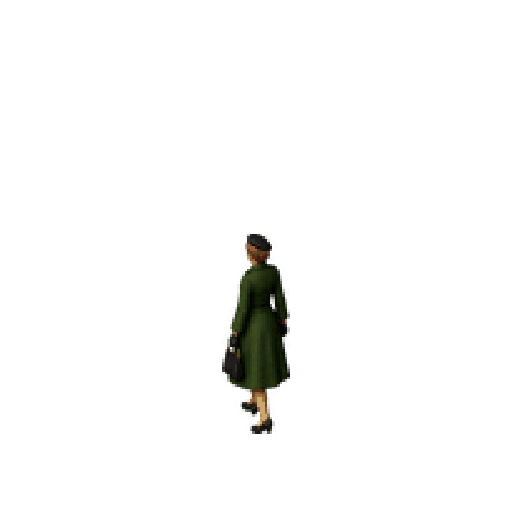
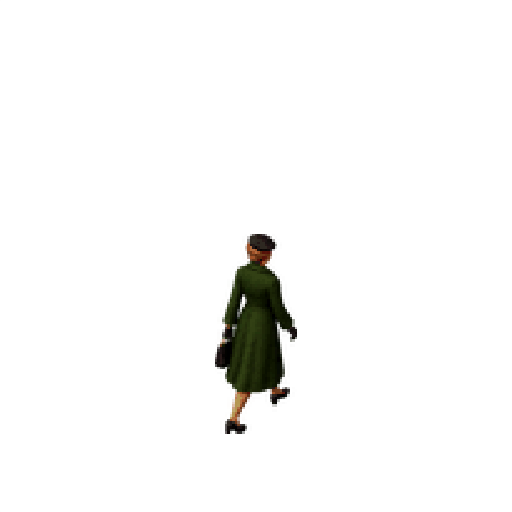
Fix Lila NE exit walk cycle so both legs alternate.
Replace the one-leg departure strip with an opposite-contact lead exchange (R-R-R-L-L-L-R-R), keep NE facing without flipping, and ship the V7 atlas cells.

Changed region(s): [[0.4062, 0.4375, 0.5938, 0.875]]

diff --git a/ArtSource/Processing/process_lila_departure_facing_fix_v01.py b/ArtSource/Processing/process_lila_departure_facing_fix_v01.py
@@ -1,0 +1,82 @@
+#!/usr/bin/env python3
+"""Install the NE-facing Lila departure strip and rebake only those atlas cells.
+
+Uses the V7 pixelation crunch (80px native / 64-color opaque ramp / 200px texture
+body) so runtime stays on the shipping contract. Arrival frames are untouched.
+"""
+
+from pathlib import Path
+import shutil
+
+from PIL import Image
+
+import process_pre_rendered_characters_v3 as raster
+import process_pre_rendered_characters_v6 as v6
+import process_pre_rendered_characters_v7 as v7
+from process_character_gait_v5 import remove_green_screen
+
+
+ROOT = Path(__file__).resolve().parents[2]
+CLIENT = ROOT / "ArtSource/Generated/Characters/Client/PreRendered3DV6"
+FIX = CLIENT / "DepartureFacingFixV1"
+ATLASES = ROOT / "RainShadow Shared/Resources/Art/Atlases"
+
+CHROMA_MASTER = CLIENT / "lila_departure_ne_strip_chroma_v06.png"
+RGBA_MASTER = CLIENT / "lila_departure_ne_strip_rgba_v06.png"
+COMBINED_SOURCE = FIX / "lila_departure_ne_strip_combined_gen.png"
+
+
+def install_master() -> None:
+    if not COMBINED_SOURCE.exists():
+        raise FileNotFoundError(f"Missing approved NE strip: {COMBINED_SOURCE}")
+    # Provenance copies of rejected NW masters live in DepartureFacingFixV1/.
+    shutil.copy2(COMBINED_SOURCE, CHROMA_MASTER)
+    print(f"Installed chroma master from {COMBINED_SOURCE.name}")
+
+
+def process_departure() -> None:
+    remove_green_screen(CHROMA_MASTER, RGBA_MASTER)
+    figures = raster.crop_components(RGBA_MASTER, 8, 1)
+    if len(figures) != 8:
+        raise RuntimeError(f"Expected 8 departure figures, found {len(figures)}")
+
+    raster.pixelize_figure = v7.pixelize_figure_v7
+    for index, figure in enumerate(figures):
+        frame = raster.register(figure)
+        v7.save_frame_v7(
+            frame,
+            "LilaArrival.atlas",
+            f"lila_departure_ne_{index:02d}.png",
+            CLIENT,
+        )
+    print(f"Wrote 8 V7 departure cells to Registered_v07/ and LilaArrival.atlas")
+
+
+def refresh_preview() -> None:
+    frame_size = raster.FRAME_SIZE
+    names = [f"lila_arrival_sw_{i:02d}.png" for i in range(9)] + [
+        f"lila_departure_ne_{i:02d}.png" for i in range(8)
+    ]
+    columns = 9
+    rows = (len(names) + columns - 1) // columns
+    preview = Image.new("RGBA", (frame_size * columns, frame_size * rows), (24, 28, 31, 255))
+    atlas = ATLASES / "LilaArrival.atlas"
+    for index, name in enumerate(names):
+        frame = Image.open(atlas / name).convert("RGBA")
+        preview.alpha_composite(
+            frame,
+            ((index % columns) * frame_size, (index // columns) * frame_size),
+        )
+    out = CLIENT / "preview_lila_v07.png"
+    preview.save(out, optimize=True)
+    print(f"Refreshed {out.name}")
+
+
+def main() -> None:
+    install_master()
+    process_departure()
+    refresh_preview()
+
+
+if __name__ == "__main__":
+    main()

diff --git a/ArtSource/Prompts/GenerationLog.md b/ArtSource/Prompts/GenerationLog.md
@@ -64,6 +64,8 @@ All prompts use the supplied Baldur's Gate-era screenshots as style-analysis ref
 | Vivian Hart departure NE V1 | `exec-fd4338a1-9267-406b-a9ab-9aaf4f8c2dd2.png`, `exec-2ff644ad-3bd5-4000-8b60-397530bc37b1.png`, `exec-7ea8d893-a118-461b-8d90-3dc2a6b59941.png`, `exec-931121e8-42f0-4647-bb66-1cab01fac9bd.png` | Four individual chroma and RGBA sources under `Generated/Characters/Client/DepartureNEV1/` plus registered still and animated previews | Adds four `client_departure_ne` frames to `ClientArrival.atlas` | Rear three-quarter northeast exit cycle preserving Vivian's burgundy hat, dark waved hair, charcoal coat, and handbag on her anatomical left; alternating contact/pass poses; same fixed camera, coarse CRPG scale, palette, and flat chroma field with no floor, shadow, text, or UI. |
 | Vivian Hart departure NE V2 | `exec-37d98276-656a-4d31-bf3f-e16aea62b902.png`, `exec-9b8088f2-c422-4fb8-843a-8b8d10c4b9a8.png` | Two corrected opposite-leg sources under `Generated/Characters/Client/DepartureNEV2/` plus registered still and animated previews | Replaces the final two `client_departure_ne` frames in `ClientArrival.atlas`; the first contact/pass pair remains unchanged | Corrects the V1 same-leg gait with an unmistakable image-right planted contact and a compact inverse pass. Vivian's hat, coat, handbag-side identity, rear northeast direction, scale, and transparent runtime contract remain unchanged. |
 | Vivian Hart departure NE V3 | `exec-f1288d70-ca87-48f8-bcfe-31dc00a02aba.png` | Corrected second-contact source under `Generated/Characters/Client/DepartureNEV3/` plus registered still and animated previews | Replaces `client_departure_ne_02` in `ClientArrival.atlas`; the other V2 cycle phases remain unchanged | Repairs the V2 contact-frame defect: the lifted handbag-side leg is drawn inward, the stride is restrained, and the coat/skirt hem remains on-model while preserving the image-right planted support leg. |
+| Lila March departure NE facing fix V1 | Cursor Image Generator NE key + two 4-frame halves (`lila_departure_ne_key_gen.png`, `lila_departure_ne_half_{a,b}_gen.png`) | `Client/PreRendered3DV6/DepartureFacingFixV1/` provenance + replaced `lila_departure_ne_strip_chroma_v06.png` | `LilaArrival.atlas` `lila_departure_ne_{00–07}` (V7 crunch) | Replaces the V6 rear strip that faced upper-left (NW) with rear three-quarter **upper-right (NE)** so exit matches `clientDeparturePath`; no horizontal flip (handbag/light). Prompt: `lila_departure_ne_facing_fix_v01.md`; processor: `process_lila_departure_facing_fix_v01.py`. |
+| Lila March departure NE gait fix V1 | Cursor Image Generator individual NE poses + RED/BLUE pose guide; approved opposite contact `pose_opp_imgL_higher.png` (+ mid/wide variants) | `Client/PreRendered3DV6/DepartureFacingFixV1/GaitFixV1/` (`gaitfix_v12`, `v11_poses/`, QA GIF/feet) + replaced `lila_departure_ne_strip_chroma_v06.png` | `LilaArrival.atlas` `lila_departure_ne_{00–07}` (V7 crunch) | Fixes post-facing-fix one-leg limp: composited R-R-R-L-L-L-R-R lead exchange (image-left foot higher on opposite half). No whole-figure flip. Prompt: `lila_departure_ne_gait_fix_v01.md`; processor: `process_lila_departure_facing_fix_v01.py`. |
 | Inventory paperdoll V1 | `exec-f580c85a-4ada-48d7-ad34-01a49637cd81.png` | `Generated/Characters/Detective/Paperdoll/det_paperdoll_front_chroma_v01.png` | `Art/UI/Inventory/det_paperdoll_front_rgba_v01.png`, 1024×1536 | Dedicated forward-facing Elias Vale paperdoll; neutral symmetrical stance; fedora, weathered trench coat and muted noir palette preserved; polished hand-painted inventory resolution with smooth antialiased edges; flat chroma green, no props, weapon, shadow, UI or text. |
 | Inventory paperdoll V2 | `exec-19ad0c2f-47e8-4e4f-95ed-3734e1b5b82d.png` | `Generated/Characters/Detective/Paperdoll/det_paperdoll_front_chroma_v02.png` | `Art/UI/Inventory/det_paperdoll_front_rgba_v02.png`, 1024×1536 | Identity-corrected front view using the original 998×1576 Elias master and south-facing runtime frame as hard anchors: no hat; receding hairline, square bearded face, broad compact build, charcoal coat with gray lapels, cream shirt, loose red tie, brown trousers and chunky shoes preserved; only orientation, resolution and antialiasing changed. |
 
@@ -156,3 +158,5 @@ All prompts use the supplied Baldur's Gate-era screenshots as style-analysis ref
 - **Anatomically tracked gait V8 (2026-07-22):** review found V7's deliberately distinct repair poses walked unnaturally and still did not reliably preserve leg identity. V8 defines the limbs explicitly as anatomical right and left across a coherent four-frame sheet: right contact, left pass, left contact, right pass. A stable warm-right/cool-left depth ramp is enforced during registration, so the generator cannot relabel the legs between phases. The affected detective SW/W/NW and client SW/NE cycles now use moderate stride lengths, low passing feet, a shared ground line, and restrained body bob. Exact sources and prompt contract: `Prompts/character_walk_gait_v08.md`.
 - **BGEE-style character redesign V6 (2026-07-23):** full replacement of every Elias Vale / Vivian Hart character cell with new BGEE-anchored identities for the canon leads **Harlan Voss** (slate-gray fedora, olive-brown belted overcoat, mustard waistcoat, dark green tie) and **Lila March** (dark-navy beret, emerald swing coat, handbag). Six user-supplied Baldur's Gate: Enhanced Edition screenshots in `References/BGEE/` anchor the pre-rendered-3D avatar craft: soft baked upper-left light, soft anti-aliased master edges, no outlines, no modern PBR. Animation density rises to the full AssetManifest contract: Voss walk **9 directions × 8 frames**, standing idle **9 × 4**, seated idle 8 + derived arms overlay 8, stand-up 12, authored (non-reversed) sit-down 12; Lila arrival 8 + 1 idle and departure 8. Generated SE desk-chain sheets face lower-left and are mirrored during registration to the runtime lower-right SE convention. `process_pre_rendered_characters_v6.py` keys the `#00ff00` masters, reduces each figure to a 100px native body, quantizes to 96 colors without dithering, stores 2× with nearest sampling — which restores the BGEE pixel-stepped edge at play scale — and writes **169** cells into the renamed atlases `VossWalk`, `VossIdle`, `VossSeatedIdle`, `VossSeatedArms`, `VossSeatTransitions`, and `LilaArrival`. New painterly 512×512 dialogue portraits (`dialogue_portrait_harlan_voss_v01`, `dialogue_portrait_lila_march_v01`) and a 1024×1536 fedora-in-hand paperdoll (`voss_paperdoll_front_rgba_v01`) replace the Elias/Vivian UI art. The V4-final runtime atlases and UI files are retained under `Generated/Characters/RuntimeBackupPreRendered3DV4Final`. Identity locks and prompt contract: `Prompts/character_prerendered_3d_v06.md`.
 - **Pixelation crunch V7 (2026-07-23):** user review against the BGEE screenshots asked for visibly stronger pixelation without regenerating art. `qa_pixelation_ab_v01.py` A/B-tested six raster parameter sets on the Voss SE key at play scale (sheets under `Generated/Characters/Detective/PixelationAB/`); the approved variant C drops the native body from **100px to 80px** and the ramp from **96 to 64 colors** (still no dithering). `process_pre_rendered_characters_v7.py` reuses the V6 keying/slicing/mirroring flow verbatim and nearest-upscales the 80px raster back to the fixed **200px texture body** (2.5×), so registration (`FOOT_Y=434`, 512 canvas), display size, and all runtime scale code are untouched. A first pass turned Voss's face olive because MEDIANCUT spent palette entries on the transparent-black field and dominant coat browns; the fix derives each frame's 64-color ramp from **opaque figure pixels only** (per-sprite palette, as Infinity Engine BAMs did). All **169** gameplay cells rebaked; portraits/paperdoll untouched. Finder `* 2.png` duplicates were purged from the shipped atlas folders. V6 runtime atlases retained under `Generated/Characters/RuntimeBackupPreRendered3DV6`; V6-vs-V7 QA: `PixelationAB/qa_v6_vs_v7_final.png`.
+- **Lila March departure NE facing fix V1 (2026-07-25):** runtime exit review found the V6 `lila_departure_ne` strip was a rear walk aimed **upper-left (NW)** while `clientDeparturePath` travels **NE**. Full 8-wide regenerations kept collapsing to NW; a locked single NE rear key plus two approved 4-frame NE halves were composited into the replacement chroma master. Wrong NW masters archived under `DepartureFacingFixV1/`. `process_lila_departure_facing_fix_v01.py` keys and V7-crunches only the eight departure cells into `LilaArrival.atlas` (arrival untouched). No horizontal flip — preserves upper-left light and avoids mirroring the handbag. Prompt: `Prompts/lila_departure_ne_facing_fix_v01.md`.
+- **Lila March departure NE gait fix V1 (2026-07-25):** after the facing fix, exit review still showed a one-leg limp — every frame kept the same leading foot. Full strips and most individual regenerations collapsed to image-right-foot-higher contacts. A RED/BLUE pose-guide lock finally produced a true opposite contact (`pose_opp_imgL_higher.png`, image-left foot higher) plus mid/wide variants; these were composited with retained right-lead contacts into an R-R-R-L-L-L-R-R chroma master (`gaitfix_v12`) and V7-processed into `LilaArrival.atlas` departure cells only. Atlas foot-height QA confirms lead exchange across the cycle. No whole-figure flip. Prompt: `Prompts/lila_departure_ne_gait_fix_v01.md`.

diff --git a/ArtSource/Prompts/lila_departure_ne_gait_fix_v01.md b/ArtSource/Prompts/lila_departure_ne_gait_fix_v01.md
@@ -1,0 +1,123 @@
+# Lila March NE departure gait fix V1
+
+Generated 2026-07-25 with the built-in Image Generator.
+
+## Defect
+
+After the NE facing fix (`lila_departure_ne_facing_fix_v01.md`), the shipped
+departure strip still reads as a **one-leg limp**: one anatomical leg keeps the
+leading role across all eight frames while the other stays planted behind.
+`qa_current_atlas_feet.png` under `DepartureFacingFixV1/GaitFixV1/` shows the
+legs never exchange lead. Whole-figure flips of NW backups (`gaitfix_v10`) did
+not restore a true two-leg cycle and violate the handbag/light contract.
+
+Do **not** fix with a horizontal flip: the handbag stays on anatomical left and
+must never be mirrored; upper-left baked light must stay upper-left.
+
+## Shared style lock
+
+Reuse the V6 BGEE avatar contract from `character_prerendered_3d_v06.md`:
+
+> Create a Baldur's Gate: Enhanced Edition–era Infinity Engine pre-rendered 3D
+> character avatar: a simple textured late-1990s game mesh rendered offline into
+> a small 2D gameplay sprite. Soft directional baked light from the upper-left,
+> soft anti-aliased silhouette against the backdrop, readable clothing folds and
+> masses, ordinary realistic human proportions, and only a few pixels of facial
+> suggestion at play scale. Not modern PBR, not photoreal concept art, not
+> hand-drawn pixel art, not toy/chibi proportions, not hard black comic outlines,
+> not polished contemporary low-poly illustration. No pores, individual hair
+> strands, glossy materials, cinematic rim light, depth of field, floor plane,
+> cast/contact shadow, scenery, text, UI, or watermark. Place every complete
+> figure on a perfectly flat uniform `#00ff00` chroma-key field. Do not use
+> `#00ff00` in the character.
+
+## Identity lock (Lila March)
+
+Slim adult mid-century silhouette; pale auburn hair pinned up beneath a small
+dark-navy beret; alert, guarded face (mostly unseen from rear); deep emerald
+swing coat flaring below the waist; cream day dress beneath; short dark gloves;
+compact **dark handbag on her anatomical left hand**; sensible dark shoes.
+
+## Direction lock (hard reject if violated)
+
+- Camera: orthographic / 2:1 dimetric, looking down about 30–35 degrees.
+- Pose: **rear three-quarter northeast** — back of coat and beret dominant.
+- Travel: every figure faces and walks toward the **upper-right** of its cell
+  (NE). Reject upper-left / NW facing.
+- Handbag remains on anatomical left (never mirrored).
+- Soft baked light from the upper-left of the frame.
+- Do **not** mirror or turn the whole character between poses.
+
+## Anatomical phase contract (hard reject if violated)
+
+Generate **individual single-figure poses** (not an ambiguous 8-wide strip).
+Locked-view opposite-leg ownership from `character_walk_gait_v06.md` plus the
+V8 right/left contract from `character_walk_gait_v08.md`:
+
+1. anatomical **right leg forward** planted, left leg extended back;
+2. right leg supporting, **left leg passing** low (both shoes move);
+3. anatomical **left leg forward** planted, right leg extended back
+   (missing half — reject if absent);
+4. left leg supporting, **right leg passing** low (both shoes move).
+
+Expand to eight runtime frames with mid-stride variants of the same four phases
+(slight restrained bob). Ordinary walk only: no high knee, rear kick, run, idle,
+or duplicated leg ownership. Both shoes must change location across contact
+pairs.
+
+Pose-guide language for the generator:
+
+> RED means anatomical RIGHT leg; BLUE means anatomical LEFT. Frame ownership
+> must match the phase list above. Keep the exact locked NE rear camera,
+> identity, outfit, body scale, common ground line, and restrained ordinary walk.
+
+## Construction (approved path)
+
+1. Lock identity from the approved NE rear key.
+2. Generate individual chroma poses. Full strips and most single poses collapse
+   to the same lead (image-right foot higher / farther). Reject any set that
+   lacks a true opposite contact.
+3. Accept opposite contact only when the **image-left foot is higher** than the
+   image-right foot after chroma extract (`dy = y_left - y_right < 0`) with a
+   wide stride. Pose-guide references (RED = anatomical right / image-left lead)
+   eventually produced `pose_opp_imgL_higher.png` plus mid/wide variants.
+4. Composite eight equal cells on `#00ff00` with an explicit lead exchange, e.g.
+   R-R-R-L-L-L-R-R, into
+   `DepartureFacingFixV1/lila_departure_ne_strip_combined_gen.png`.
+5. Run `process_lila_departure_facing_fix_v01.py` (arrival untouched).
+6. Re-check registered atlas cells with the same height metric — V7 preserves
+   the opposite lead when the source pose is genuine.
+
+Shipped provenance: `DepartureFacingFixV1/GaitFixV1/lila_departure_ne_strip_gaitfix_v12_chroma.png`
+plus `v11_poses/`, `qa_v12_atlas_feet.png`, `preview_v12.gif`.
+
+## References
+
+- Identity / scale: `Generated/Characters/Client/PreRendered3DV6/lila_key_sw_chroma_v06.png`
+- NE facing key: `Generated/Characters/Client/PreRendered3DV6/DepartureFacingFixV1/lila_departure_ne_key_gen.png`
+- Costume continuity: `Generated/Characters/Client/PreRendered3DV6/lila_arrival_sw_strip_rgba_v06.png`
+- Broken one-leg shipping master (do not copy gait):
+  `Generated/Characters/Client/PreRendered3DV6/lila_departure_ne_strip_chroma_v06.png`
+
+## Outputs
+
+| Asset | Path |
+|---|---|
+| Combined gen source | `Client/PreRendered3DV6/DepartureFacingFixV1/lila_departure_ne_strip_combined_gen.png` |
+| Chroma master | `Client/PreRendered3DV6/lila_departure_ne_strip_chroma_v06.png` |
+| RGBA master | `Client/PreRendered3DV6/lila_departure_ne_strip_rgba_v06.png` |
+| Registered cells | `lila_departure_ne_{00–07}.png` in `Registered_v07/` + `LilaArrival.atlas` |
+| Provenance / QA | `Client/PreRendered3DV6/DepartureFacingFixV1/GaitFixV1/` |
+| Processor | `ArtSource/Processing/process_lila_departure_facing_fix_v01.py` |
+
+## Final prompt nucleus (single pose)
+
+> Same Lila March identity and BGEE pre-rendered avatar craft as the approved NE
+> rear key. One complete figure on flat `#00ff00` chroma. Rear three-quarter
+> northeast: back of emerald coat and navy beret dominant; faces and travels
+> toward the **upper-right**. Handbag on anatomical left. Soft upper-left baked
+> light. Ordinary restrained walk pose with the specified anatomical leg
+> ownership (right-forward contact, left pass, left-forward contact, or right
+> pass). Both shoes must be clearly placed. No floor, shadow, scenery, text, UI,
+> high knee, rear kick, run, or whole-figure flip. Do not face upper-left /
+> northwest.

diff --git a/ArtSource/Prompts/lila_departure_ne_facing_fix_v01.md b/ArtSource/Prompts/lila_departure_ne_facing_fix_v01.md
@@ -1,0 +1,90 @@
+# Lila March NE departure facing fix V1
+
+Generated 2026-07-25 with the built-in Image Generator.
+
+## Defect
+
+The shipped V6 master `lila_departure_ne_strip_chroma_v06.png` is a rear walk
+cycle, but every figure faces **upper-left (NW)** instead of **upper-right (NE)**.
+`clientDeparturePath` travels NE toward the exterior door, so the exit sprites
+read as facing against the path.
+
+Do **not** fix with a horizontal flip: the handbag stays on anatomical left and
+must never be mirrored; upper-left baked light must stay upper-left.
+
+## Shared style lock
+
+Reuse the V6 BGEE avatar contract from `character_prerendered_3d_v06.md`:
+
+> Create a Baldur's Gate: Enhanced Edition–era Infinity Engine pre-rendered 3D
+> character avatar: a simple textured late-1990s game mesh rendered offline into
+> a small 2D gameplay sprite. Soft directional baked light from the upper-left,
+> soft anti-aliased silhouette against the backdrop, readable clothing folds and
+> masses, ordinary realistic human proportions, and only a few pixels of facial
+> suggestion at play scale. Not modern PBR, not photoreal concept art, not
+> hand-drawn pixel art, not toy/chibi proportions, not hard black comic outlines,
+> not polished contemporary low-poly illustration. No pores, individual hair
+> strands, glossy materials, cinematic rim light, depth of field, floor plane,
+> cast/contact shadow, scenery, text, UI, or watermark. Place every complete
+> figure on a perfectly flat uniform `#00ff00` chroma-key field. Do not use
+> `#00ff00` in the character.
+
+## Identity lock (Lila March)
+
+Slim adult mid-century silhouette; pale auburn hair pinned up beneath a small
+dark-navy beret; alert, guarded face (mostly unseen from rear); deep emerald
+swing coat flaring below the waist; cream day dress beneath; short dark gloves;
+compact **dark handbag on her anatomical left hand**; sensible dark shoes.
+
+## Direction lock (hard reject if violated)
+
+- Camera: orthographic / 2:1 dimetric, looking down about 30–35 degrees.
+- Pose: **rear three-quarter northeast** — back of coat and beret dominant.
+- Travel: every figure faces and walks toward the **upper-right** of its cell
+  (NE). Reject upper-left / NW facing.
+- Handbag remains on anatomical left (never mirrored).
+- Soft baked light from the upper-left of the frame.
+
+## Sheet contract
+
+- Single horizontal row of **8 equal cells** on flat `#00ff00` chroma.
+- Ordinary contact/pass walk gait with both legs alternating across the cycle.
+- Shared ground line, body scale, and restrained bob; no high knee, rear kick,
+  run, idle phase, or duplicated leg ownership.
+- If the generator fails to pack 8 coherent cells, generate two 4-frame sheets
+  (phases 0–3 and 4–7) with the same locked camera and identity.
+
+## References
+
+- Identity / scale: `Generated/Characters/Client/PreRendered3DV6/lila_key_sw_chroma_v06.png`
+- Costume continuity: `Generated/Characters/Client/PreRendered3DV6/lila_arrival_sw_strip_rgba_v06.png`
+- Wrong facing (same identity, opposite compass — do not copy direction):
+  `Generated/Characters/Client/PreRendered3DV6/lila_departure_ne_strip_chroma_v06.png`
+  (archived under `DepartureFacingFixV1/` after replacement)
+
+## Generation note
+
+Full 8-wide strips repeatedly collapsed to NW in the Image Generator. The approved
+path was: lock a single NE rear key, generate two 4-frame NE halves from that key,
+composite them into an 8-cell chroma master, then V7-process. Rejected NW 8-wides
+remain under `DepartureFacingFixV1/` for provenance.
+
+## Outputs
+
+| Asset | Path |
+|---|---|
+| New chroma master | `Client/PreRendered3DV6/lila_departure_ne_strip_chroma_v06.png` |
+| Combined gen source | `Client/PreRendered3DV6/DepartureFacingFixV1/lila_departure_ne_strip_combined_gen.png` |
+| Archived wrong NW master | `Client/PreRendered3DV6/DepartureFacingFixV1/lila_departure_ne_strip_chroma_v06_nw_wrong.png` |
+| Registered cells | `lila_departure_ne_{00–07}.png` in `Registered_v07/` + `LilaArrival.atlas` |
+| Processor | `ArtSource/Processing/process_lila_departure_facing_fix_v01.py` |
+
+## Final prompt nucleus
+
+> Same Lila March identity and BGEE pre-rendered avatar craft as the approved SW
+> key. Eight equal cells in one horizontal row on flat `#00ff00` chroma. Rear
+> three-quarter northeast walk cycle: back of emerald coat and navy beret
+> dominant; every figure faces and travels toward the **upper-right** of its
+> cell. Handbag stays on anatomical left. Soft upper-left baked light. Ordinary
+> alternating contact/pass gait, shared ground line, no floor, shadow, scenery,
+> text, or UI. Do not face upper-left / northwest.
